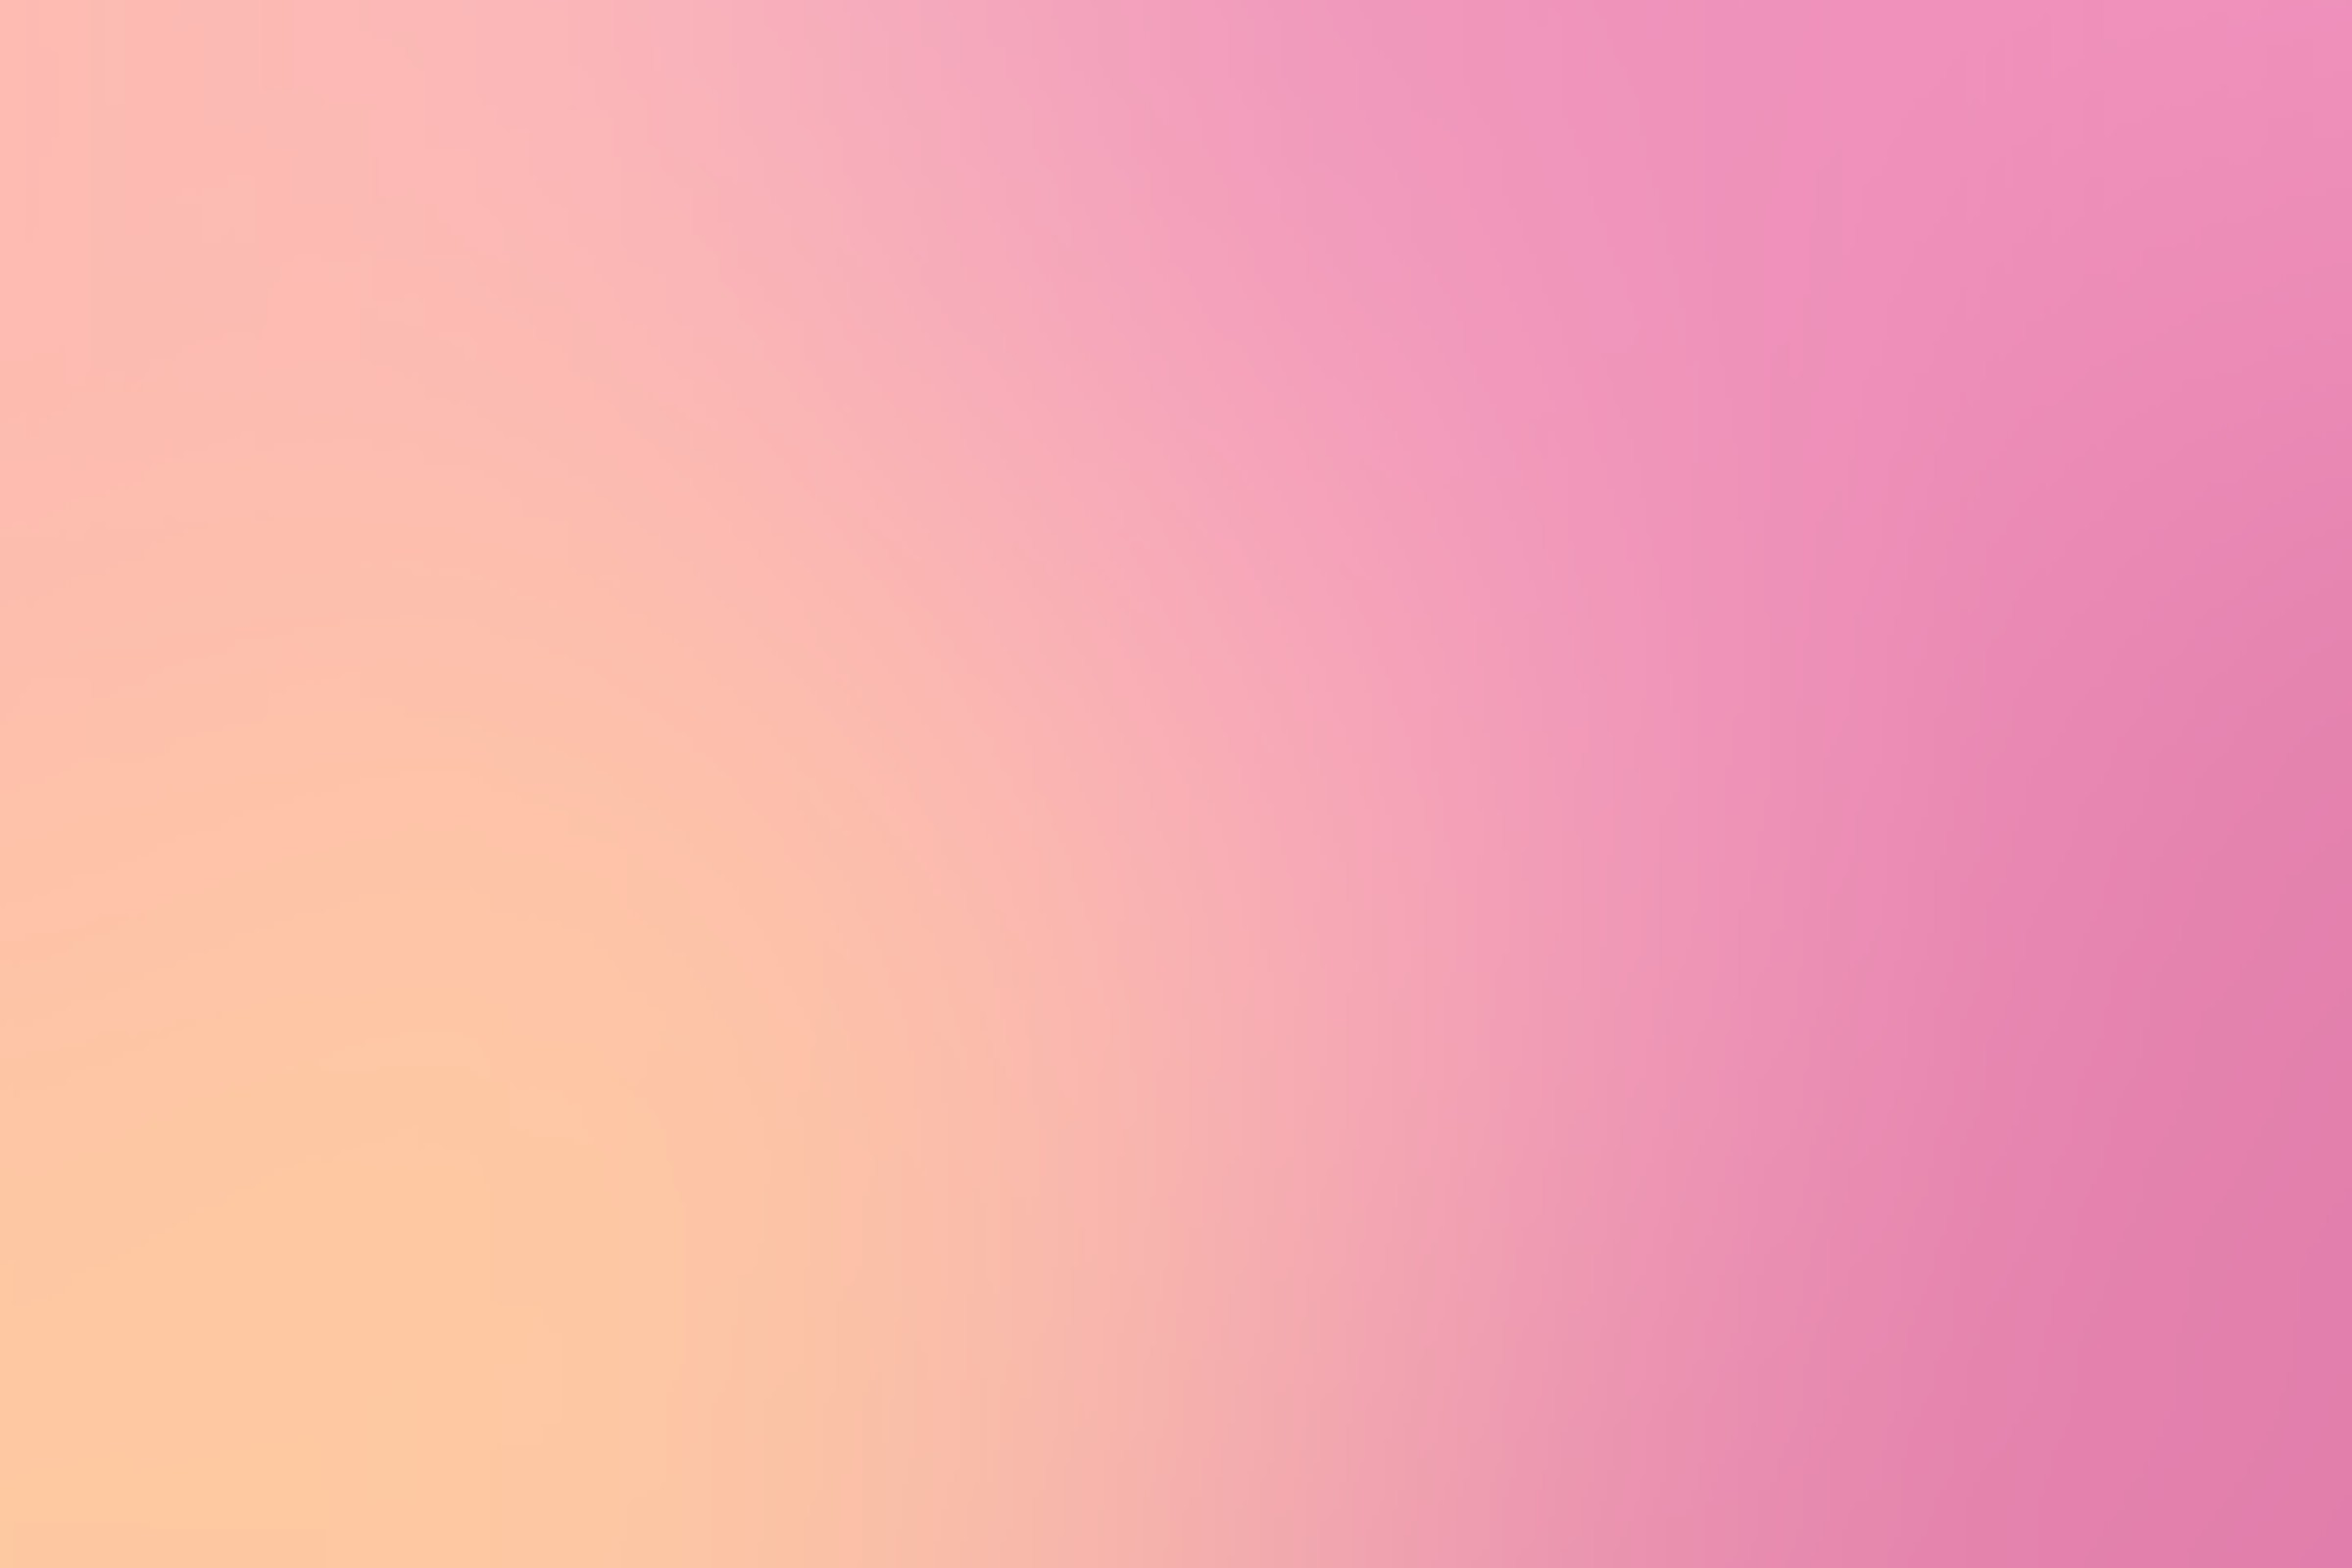
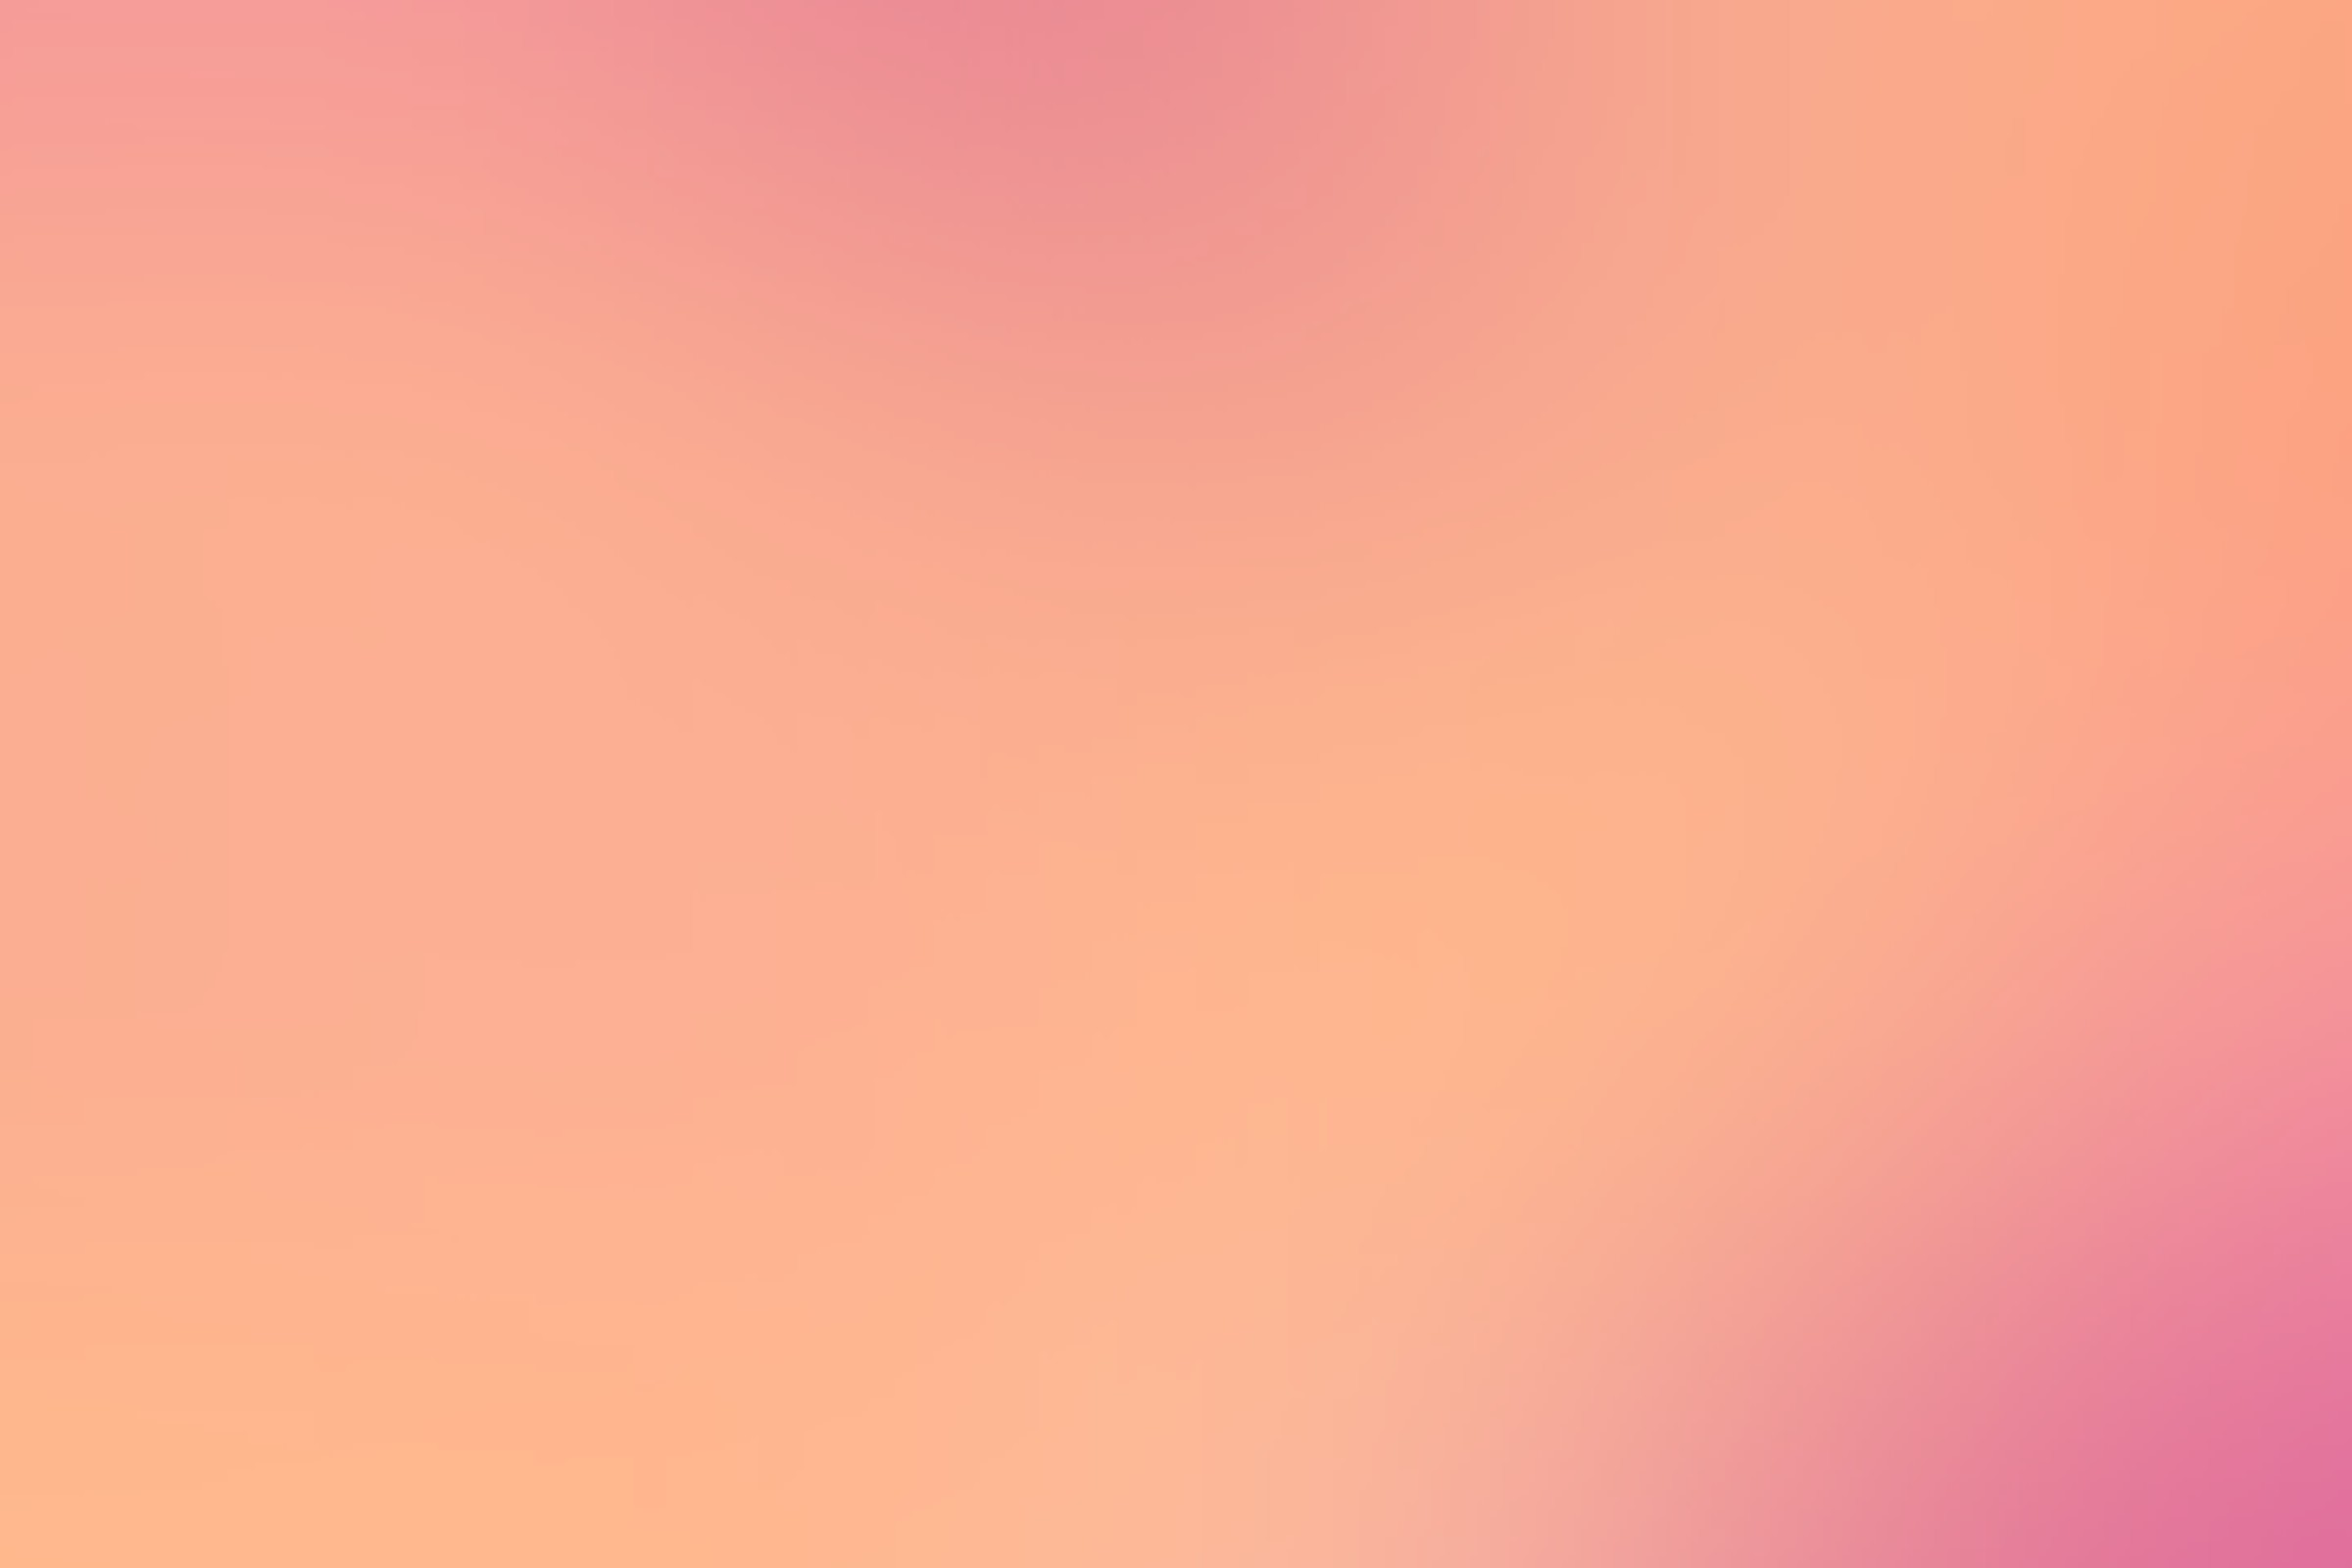
Fix facts card, clearer gradients, dark-mode-flag proofing
Swap the inaccurate '4 products live' line for the Learner of the Year award. Regenerate the three mesh gradients with richer, more distinct colour. Declare color-scheme: light (meta + :root) on all pages so Chrome's forced dark flag leaves the light theme and hero text intact.

Generated with [Devin](https://devin.ai)

diff --git a/index.html b/index.html
@@ -2,6 +2,7 @@
 <html lang="en" class="js">
 <head>
 <meta charset="UTF-8">
+<meta name="color-scheme" content="light">
 <meta name="viewport" content="width=device-width, initial-scale=1.0">
 <meta name="description" content="Adam Scholey - Software Engineer">
 <title>Adam Scholey - Software Engineer</title>
@@ -11,7 +12,7 @@
 <noscript><link rel="stylesheet" href="https://fonts.googleapis.com/css2?family=Instrument+Serif:ital@0;1&family=Space+Grotesk:wght@500&family=Inter:wght@400;500;600;700&family=Instrument+Serif:ital@0;1&display=swap"></noscript>
 <style>
 @font-face { font-family:'Inter Display'; src:url('fonts/InterDisplay-Medium.ttf') format('truetype'); font-weight:500; font-style:normal; font-display:swap; }
-:root{
+:root{color-scheme:light;
   --bg:#ffffff;
   --panel:#f6f7f8;
   --panel2:#f6f7f8;
@@ -476,7 +477,7 @@ footer{
           <li>Software Engineer<span>diam Systems</span></li>
           <li>Based in the UK<span>Remote-friendly</span></li>
           <li>Python · Postgres<span>Security &amp; real-time systems</span></li>
-          <li>4 products live<span>framed@ · tracker · seek · reserve</span></li>
+          <li>Learner of the Year<span>Computing, Science &amp; Environmental Tech</span></li>
         </ul>
       </aside>
       <button class="hero-arrow prev" type="button" aria-label="Previous slide">&#8249;</button>

diff --git a/experience.html b/experience.html
@@ -2,6 +2,7 @@
 <html lang="en" class="js">
 <head>
 <meta charset="UTF-8">
+<meta name="color-scheme" content="light">
 <meta name="viewport" content="width=device-width, initial-scale=1.0">
 <meta name="description" content="Experience and education of Adam Scholey - Adam Scholey">
 <title>Experience - Adam Scholey</title>
@@ -11,7 +12,7 @@
 <noscript><link rel="stylesheet" href="https://fonts.googleapis.com/css2?family=Instrument+Serif:ital@0;1&family=Space+Grotesk:wght@500&family=Inter:wght@400;500;600;700&family=Instrument+Serif:ital@0;1&display=swap"></noscript>
 <style>
 @font-face { font-family:'Inter Display'; src:url('fonts/InterDisplay-Medium.ttf') format('truetype'); font-weight:500; font-style:normal; font-display:swap; }
-:root{
+:root{color-scheme:light;
   --bg:#ffffff;
   --panel:#f6f7f8;
   --panel2:#f6f7f8;

diff --git a/skills.html b/skills.html
@@ -2,6 +2,7 @@
 <html lang="en" class="js">
 <head>
 <meta charset="UTF-8">
+<meta name="color-scheme" content="light">
 <meta name="viewport" content="width=device-width, initial-scale=1.0">
 <meta name="description" content="Technical skills of Adam Scholey - Adam Scholey">
 <title>Skills - Adam Scholey</title>
@@ -11,7 +12,7 @@
 <noscript><link rel="stylesheet" href="https://fonts.googleapis.com/css2?family=Instrument+Serif:ital@0;1&family=Space+Grotesk:wght@500&family=Inter:wght@400;500;600;700&family=Instrument+Serif:ital@0;1&display=swap"></noscript>
 <style>
 @font-face { font-family:'Inter Display'; src:url('fonts/InterDisplay-Medium.ttf') format('truetype'); font-weight:500; font-style:normal; font-display:swap; }
-:root{
+:root{color-scheme:light;
   --bg:#ffffff;
   --panel:#f6f7f8;
   --panel2:#f6f7f8;

diff --git a/projects.html b/projects.html
@@ -2,6 +2,7 @@
 <html lang="en" class="js">
 <head>
 <meta charset="UTF-8">
+<meta name="color-scheme" content="light">
 <meta name="viewport" content="width=device-width, initial-scale=1.0">
 <meta name="description" content="Projects - Adam Scholey">
 <title>Projects - Adam Scholey</title>
@@ -11,7 +12,7 @@
 <noscript><link rel="stylesheet" href="https://fonts.googleapis.com/css2?family=Cormorant+Garamond:ital,wght@0,500;0,600;1,500&family=Space+Grotesk:wght@500&family=Inter:wght@400;500;600;700&family=Instrument+Serif:ital@0;1&display=swap"></noscript>
 <style>
 @font-face { font-family:'Inter Display'; src:url('fonts/InterDisplay-Medium.ttf') format('truetype'); font-weight:500; font-style:normal; font-display:swap; }
-:root{
+:root{color-scheme:light;
   --bg:#ffffff;
   --panel:#f6f7f8;
   --text:#101214;

diff --git a/contact.html b/contact.html
@@ -2,6 +2,7 @@
 <html lang="en" class="js">
 <head>
 <meta charset="UTF-8">
+<meta name="color-scheme" content="light">
 <meta name="viewport" content="width=device-width, initial-scale=1.0">
 <meta name="description" content="Contact Adam Scholey - Adam Scholey">
 <title>Contact - Adam Scholey</title>
@@ -11,7 +12,7 @@
 <noscript><link rel="stylesheet" href="https://fonts.googleapis.com/css2?family=Instrument+Serif:ital@0;1&family=Space+Grotesk:wght@500&family=Inter:wght@400;500;600;700&family=Instrument+Serif:ital@0;1&display=swap"></noscript>
 <style>
 @font-face { font-family:'Inter Display'; src:url('fonts/InterDisplay-Medium.ttf') format('truetype'); font-weight:500; font-style:normal; font-display:swap; }
-:root{
+:root{color-scheme:light;
   --bg:#ffffff;
   --panel:#f6f7f8;
   --panel2:#f6f7f8;

diff --git a/cv.html b/cv.html
@@ -10,7 +10,7 @@
 <link rel='stylesheet' href='https://fonts.googleapis.com/css2?family=Cormorant+Garamond:ital,wght@0,500;0,600;1,500&amp;family=Space+Grotesk:wght@500&amp;family=Inter:wght@400;500;600;700&amp;family=Playfair+Display:wght@600&amp;family=Instrument+Serif:ital@0;1&amp;display=swap'>
 <style>
 @font-face { font-family:'Inter Display'; src:url('fonts/InterDisplay-Medium.ttf') format('truetype'); font-weight:500; font-style:normal; font-display:swap; }
-:root{
+:root{color-scheme:light;
   --bg:#ffffff;
   --panel:#f6f7f8;
   --panel2:#f6f7f8;

diff --git a/diagrams.html b/diagrams.html
@@ -10,7 +10,7 @@
 <link rel='stylesheet' href='https://fonts.googleapis.com/css2?family=Cormorant+Garamond:ital,wght@0,500;0,600;1,500&amp;family=Space+Grotesk:wght@500&amp;family=Inter:wght@400;500;600;700&amp;family=Instrument+Serif:ital@0;1&amp;display=swap'>
 <style>
 @font-face { font-family:'Inter Display'; src:url('fonts/InterDisplay-Medium.ttf') format('truetype'); font-weight:500; font-style:normal; font-display:swap; }
-:root{
+:root{color-scheme:light;
   --bg:#ffffff;
   --panel:#f6f7f8;
   --panel2:#f6f7f8;

diff --git a/now.html b/now.html
@@ -10,7 +10,7 @@
 <link rel='stylesheet' href='https://fonts.googleapis.com/css2?family=Space+Grotesk:wght@500&family=Cormorant+Garamond:ital,wght@0,500;0,600;1,500&amp;family=Inter:wght@400;500;600;700&amp;family=Instrument+Serif:ital@0;1&amp;display=swap'>
 <style>
 @font-face { font-family:'Inter Display'; src:url('fonts/InterDisplay-Medium.ttf') format('truetype'); font-weight:500; font-style:normal; font-display:swap; }
-:root{
+:root{color-scheme:light;
   --bg:#ffffff;
   --panel:#f6f7f8;
   --panel2:#f6f7f8;
